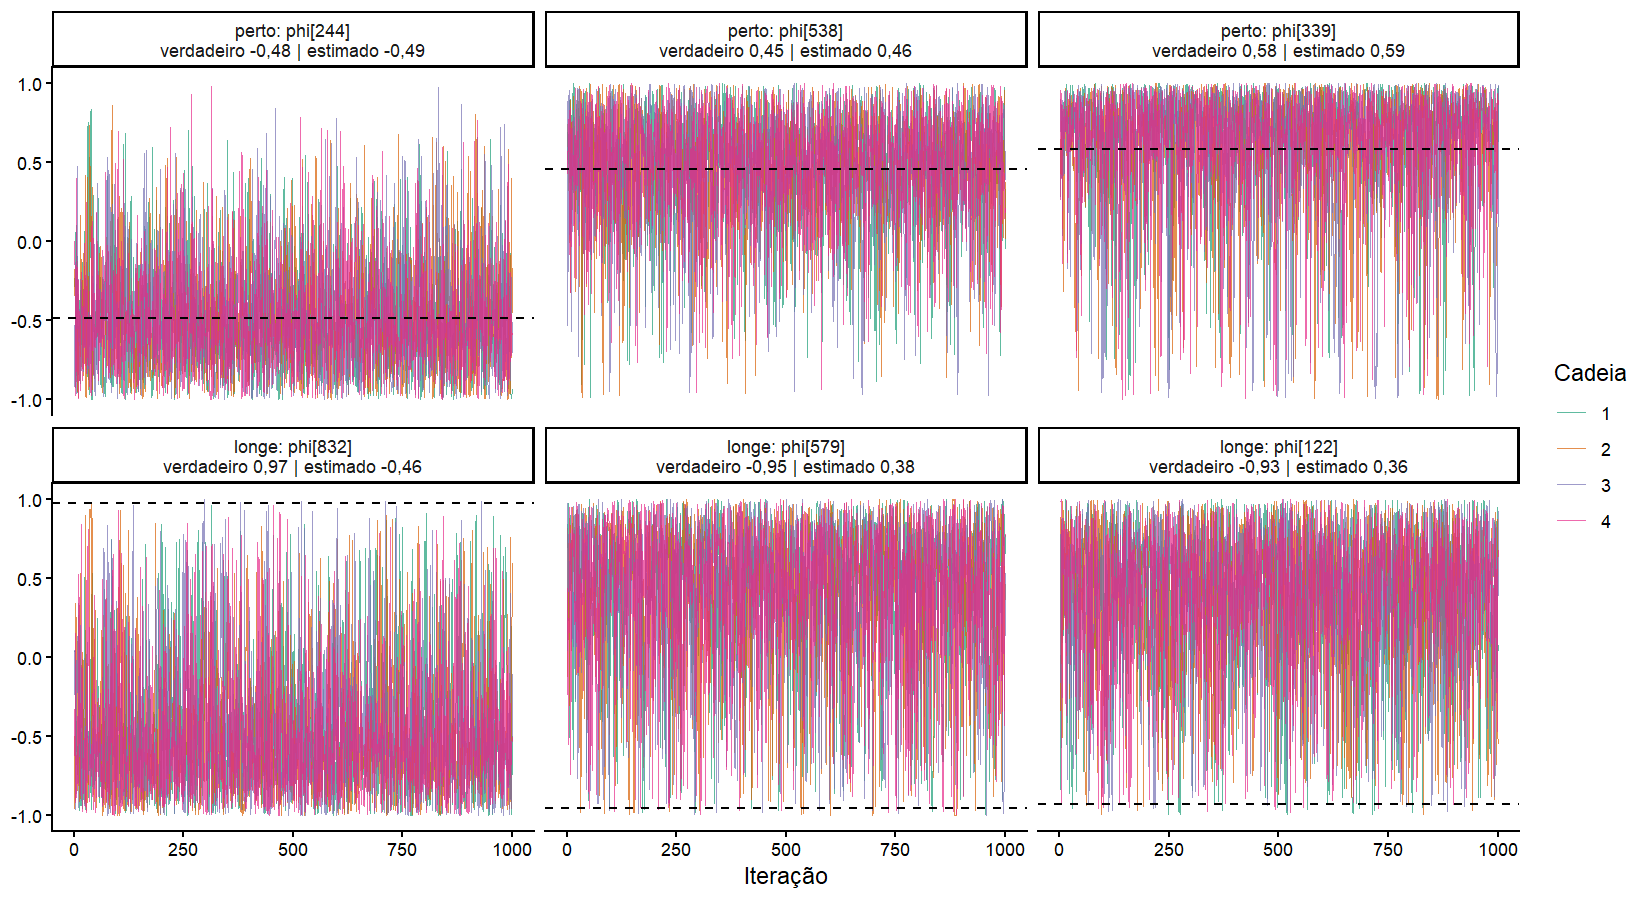
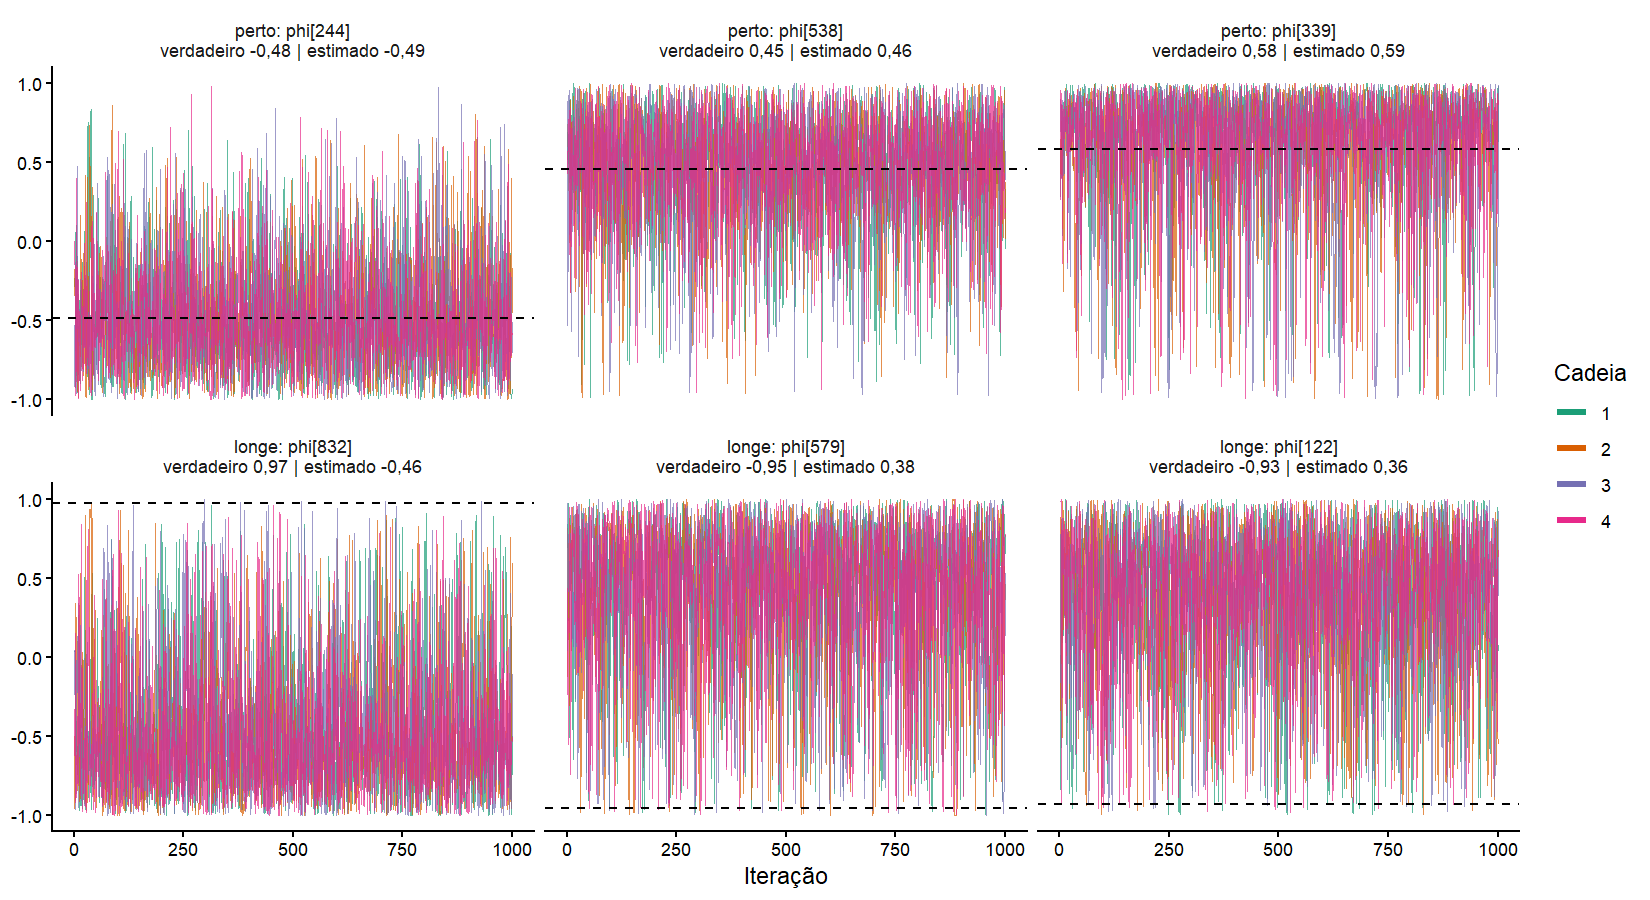
Ajusta os gráficos de diagnóstico e acrescenta o erro de Monte Carlo

diff --git a/README.md b/README.md
@@ -50,7 +50,7 @@ renv::restore()                          # instala os pacotes do renv.lock (só 
 source("scripts/01_simulacao.R")         # gera os dados e cria a pasta da simulação em output/
 source("scripts/02_recuperacao_mirt.R")  # 2PL no tempo 0 com mirt
 source("scripts/03_recuperacao_stan.R")  # Stan: cerca de 7 min no cenário base (4 cadeias em paralelo)
-source("scripts/04_diagnosticos.R")      # cadeias separadas, autocorrelação, ESS dos phi e theta verdadeiros
+source("scripts/04_diagnosticos.R")      # cadeias separadas, autocorrelação, erro de Monte Carlo, ESS dos phi e theta verdadeiros
 source("scripts/05_comparar_modelos.R")  # opcional: compara a velocidade do modelo original e do otimizado
 ```
 
